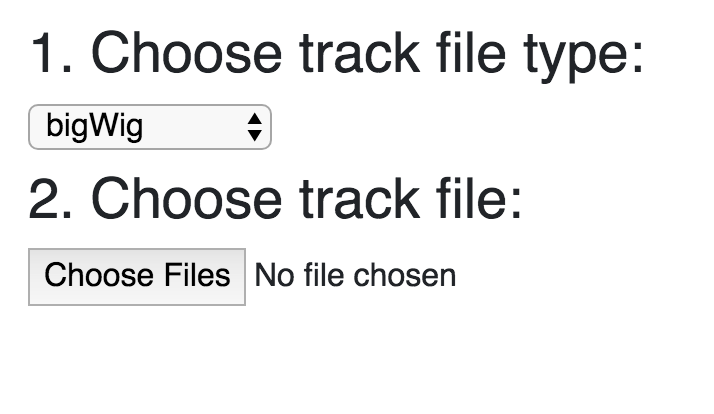
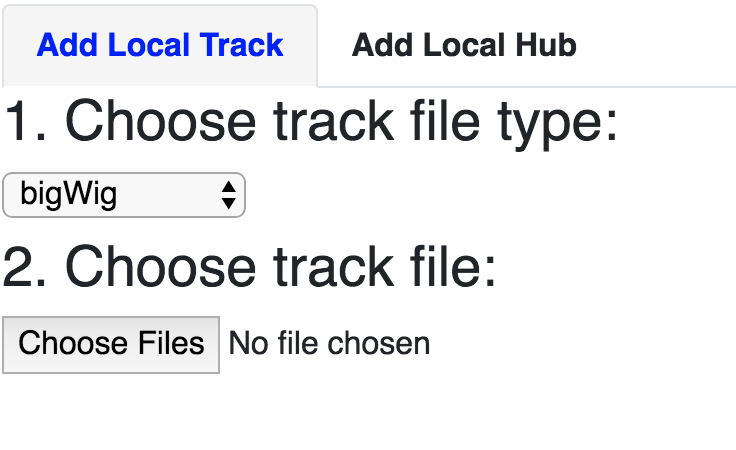
Add local folder

diff --git a/docs/local.rst b/docs/local.rst
@@ -2,9 +2,9 @@ Local track files
 =================
 
 We realized that not every group can setup a web server with CORS enabled, since version 48.0.0,
-we added the ability to read local track files, which means you can *upload* your track files on
-your hard drive to the browser. The formats for the track files are the same as the ones used for
-being hosted on webserver.
+we added the ability to read local track files or entire folder as a datahub, which means you can *upload* track files on
+from your hard drive to the browser. The formats for the track files are the same as the ones used for
+being hosted on a webserver.
 
 .. note:: the track *uploaded* through the file upload dialog *cannot* be saved to browser's local
           storage, thus, when you refresh the browser, your local tracks will gone. You need to
@@ -16,12 +16,15 @@ being hosted on webserver.
                the files at local hard drive, so the local track **can not** be saved
                into ``Session``. Please consider use HTTP(S) hosted tracks to work with the session function.
 
+Upload files as tracks
+----------------------
+
 To use your local track files, format your files to the correct format, open the ``Upload Track``
 menu from ``Tracks``:
 
 .. image:: _static/upload1.png
 
-First, choose your track file format:
+By default, you will be at ``Add Local Track`` tab. First, choose your track file format:
 
 .. image:: _static/upload2.png
 
@@ -46,3 +49,54 @@ Example if choose 1 local bedGraph track, (please choose both track file and ind
 The bedGraph track is added:
 
 .. image:: _static/upload7.png
+
+Upload files or folder as datahub
+---------------------------------
+
+If you want to upload many different types of track files to the browser, you can do that too!
+Choose the ``Add Local Hub`` tab from the track upload menu as before:
+
+.. image:: _static/upload8.png
+
+You would need to create a file called ``hub.config.json`` for the browser to configure your local data hub, an
+example below::
+
+    [
+        {
+            "filename": "2value.bg.gz",
+            "type": "bedgraph",
+            "name": "test bedgraph",
+            "options": {"height": 100}
+        },
+        {
+            "filename": "TW463_20-5-bonemarrow_MeDIP.bigWig",
+            "type": "bigwig",
+            "name": "MeDIP",
+            "options": {"color": "pink"}
+        },
+        {
+            "filename": "TW551_20-5-bonemarrow_MRE.CpG.bigWig",
+            "type": "bigwig",
+            "name": "MRE",
+            "options": {"color": "red"}
+        },
+        {
+            "filename": "h1.liftedtohg19.gz",
+            "type": "methylc"
+        }
+    ]
+
+.. note:: Please note the ``name`` and ``options`` attribute specified in the file, the syntax is same as a remote datahub file.
+
+You can either choose an entire folder by clicking the first button:
+
+.. image:: _static/upload9.png
+
+or choose many files by clicking the second button:
+
+.. image:: _static/upload10.png
+
+After upload either a folder or many files, your local datahub will be displayed: (please note the ``name``
+and ``options`` specified in your ``hub.config.json`` file will be applied too)
+
+.. image:: _static/upload11.png
